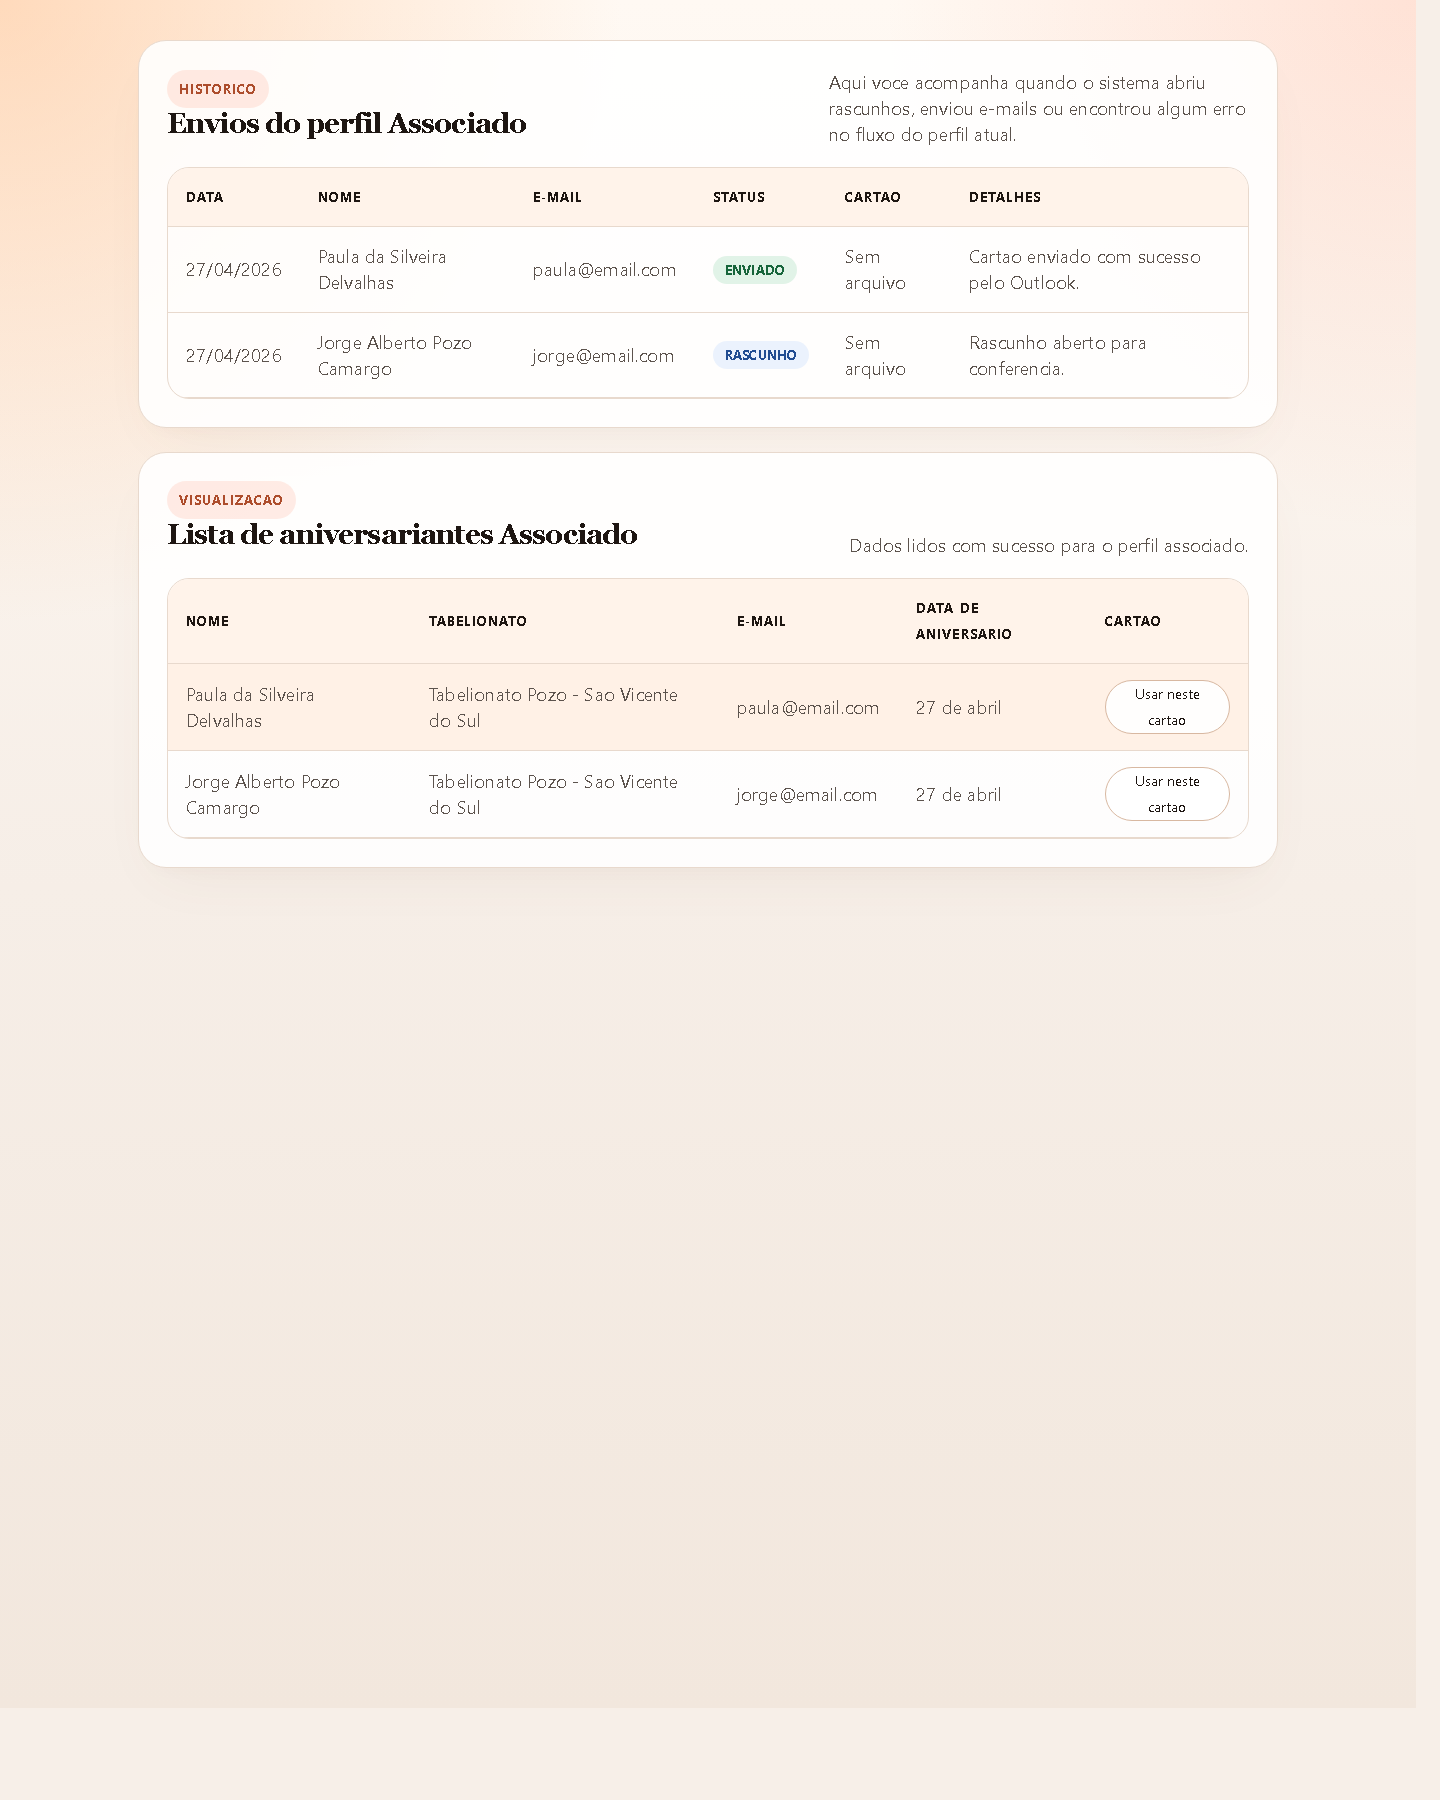
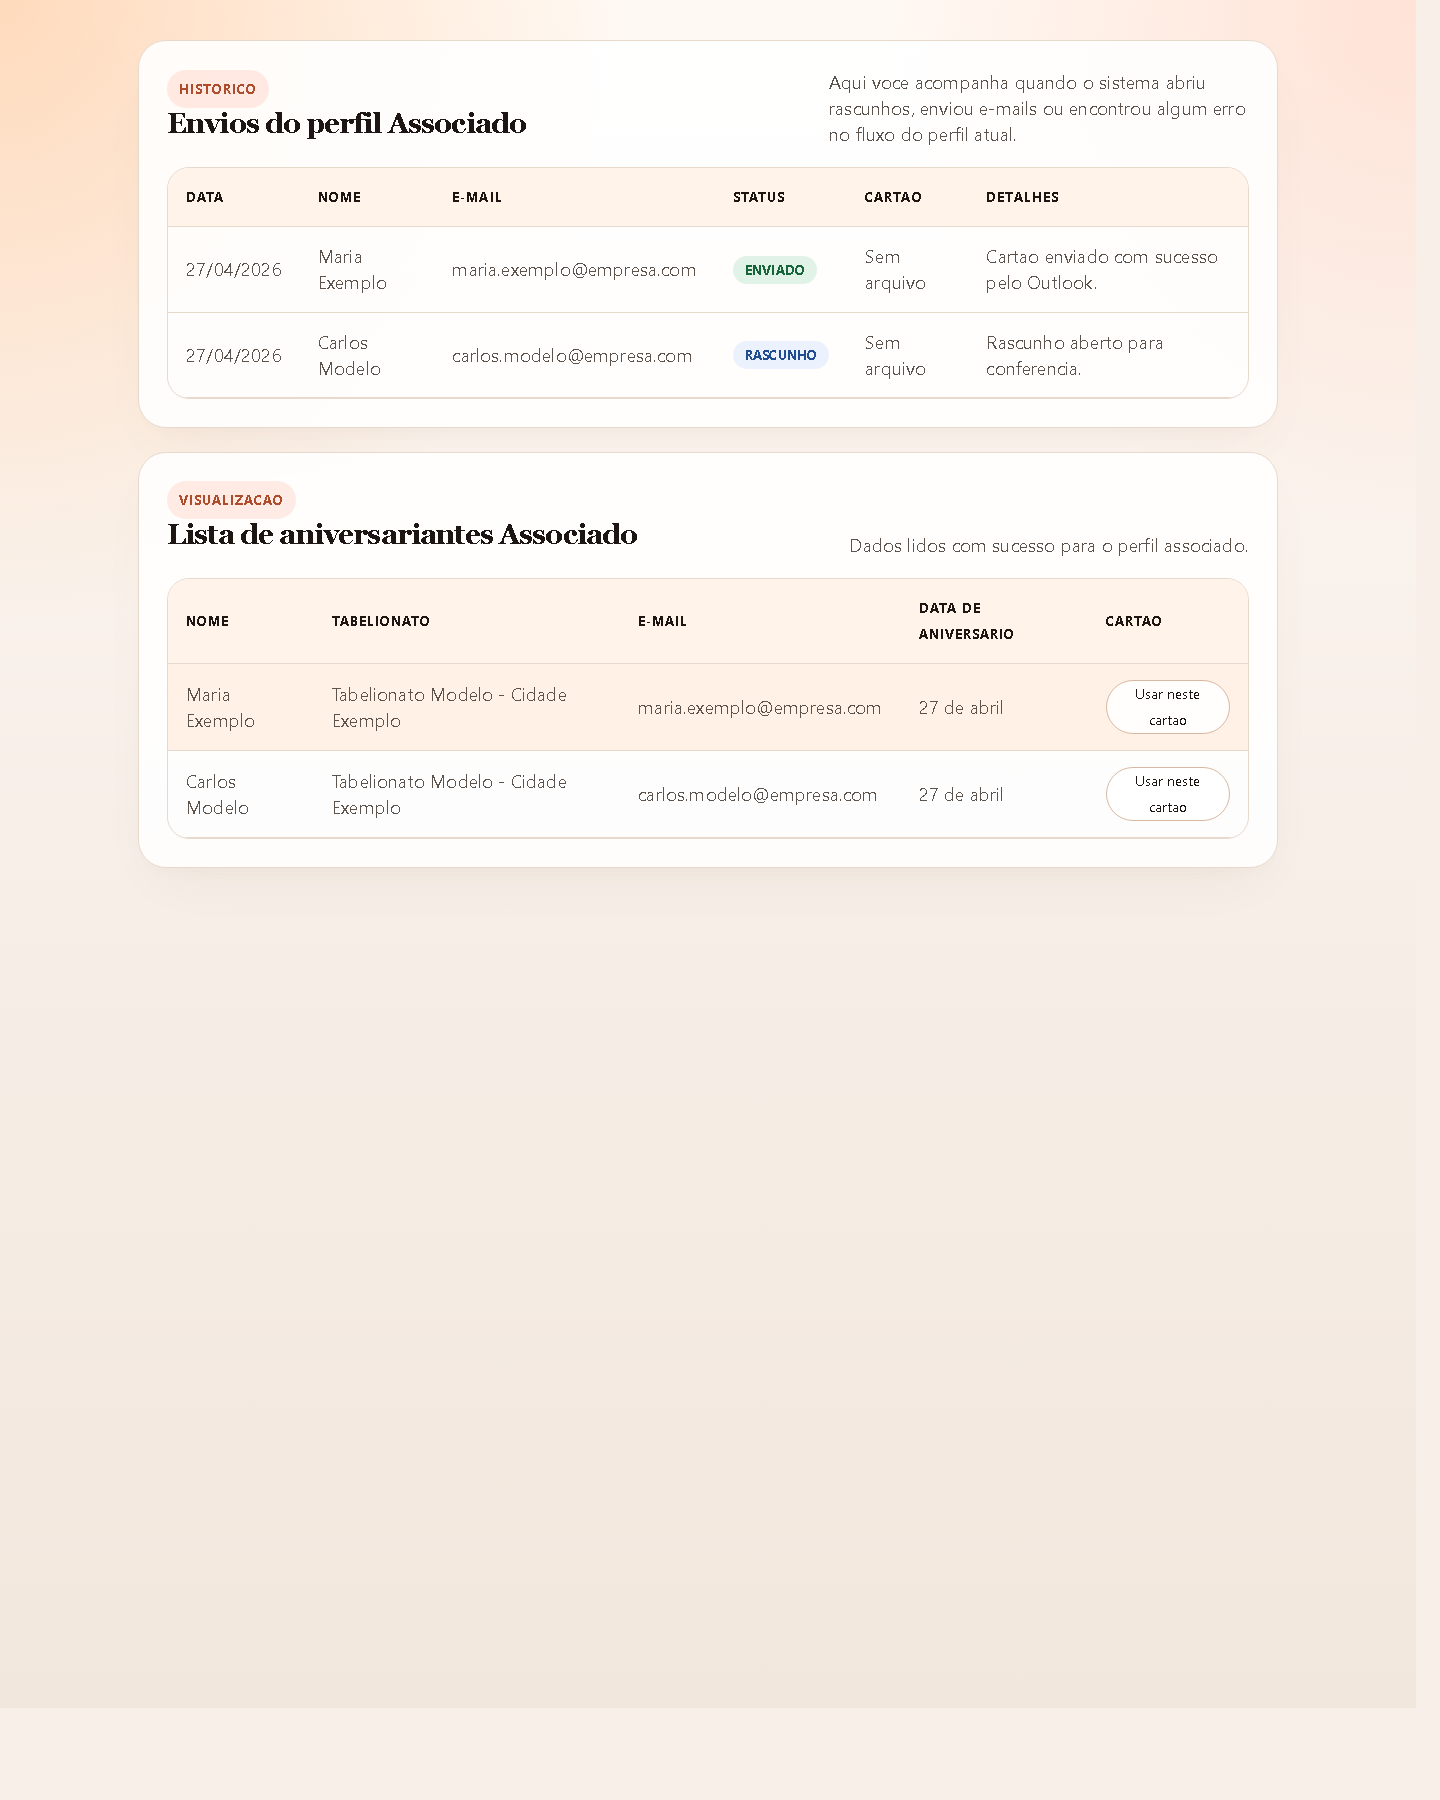
chore: sanitize portfolio demo data

diff --git a/frontend/src/App.jsx b/frontend/src/App.jsx
@@ -37,29 +37,29 @@ const PROFILES = {
 const SAMPLE_ROWS = {
   associado: [
     {
-      nome: 'Paula da Silveira Delvalhas',
-      tabelionato: 'Tabelionato Pozo - Sao Vicente do Sul',
-      email: 'paula@email.com',
+      nome: 'Maria Exemplo',
+      tabelionato: 'Tabelionato Modelo - Cidade Exemplo',
+      email: 'maria.exemplo@empresa.com',
       data_aniversario: '27/04',
     },
     {
-      nome: 'Jorge Alberto Pozo Camargo',
-      tabelionato: 'Tabelionato Pozo - Sao Vicente do Sul',
-      email: 'jorge@email.com',
+      nome: 'Carlos Modelo',
+      tabelionato: 'Tabelionato Modelo - Cidade Exemplo',
+      email: 'carlos.modelo@empresa.com',
       data_aniversario: '27/04',
     },
   ],
   diretoria: [
     {
-      nome: 'Joao Ricardo Souza',
-      tabelionato: 'Diretoria CNB/RS',
-      email: 'joao.ricardo@email.com',
+      nome: 'Fernanda Exemplo',
+      tabelionato: 'Diretoria Institucional',
+      email: 'fernanda.exemplo@empresa.com',
       data_aniversario: '27/04',
     },
     {
-      nome: 'Mariana Costa Ferreira',
-      tabelionato: 'Diretoria CNB/RS',
-      email: 'mariana.ferreira@email.com',
+      nome: 'Roberto Modelo',
+      tabelionato: 'Diretoria Institucional',
+      email: 'roberto.modelo@empresa.com',
       data_aniversario: '05/05',
     },
   ],
@@ -70,8 +70,8 @@ const SAMPLE_HISTORY = {
     {
       timestamp: '2026-04-27T08:00:00',
       data_referencia: '27/04/2026',
-      nome: 'Paula da Silveira Delvalhas',
-      email: 'paula@email.com',
+      nome: 'Maria Exemplo',
+      email: 'maria.exemplo@empresa.com',
       status: 'enviado',
       detalhes: 'Cartao enviado com sucesso pelo Outlook.',
       arquivo_cartao_url: null,
@@ -79,8 +79,8 @@ const SAMPLE_HISTORY = {
     {
       timestamp: '2026-04-27T08:03:00',
       data_referencia: '27/04/2026',
-      nome: 'Jorge Alberto Pozo Camargo',
-      email: 'jorge@email.com',
+      nome: 'Carlos Modelo',
+      email: 'carlos.modelo@empresa.com',
       status: 'rascunho',
       detalhes: 'Rascunho aberto para conferencia.',
       arquivo_cartao_url: null,
@@ -90,8 +90,8 @@ const SAMPLE_HISTORY = {
     {
       timestamp: '2026-04-27T08:10:00',
       data_referencia: '27/04/2026',
-      nome: 'Joao Ricardo Souza',
-      email: 'joao.ricardo@email.com',
+      nome: 'Fernanda Exemplo',
+      email: 'fernanda.exemplo@empresa.com',
       status: 'enviado',
       detalhes: 'Parabens ao membro da Diretoria enviado com sucesso.',
       arquivo_cartao_url: null,
@@ -209,7 +209,7 @@ function App() {
   )
   const [previewCardUrl, setPreviewCardUrl] = useState('')
   const [templateVersion, setTemplateVersion] = useState(0)
-  const [senderEmail, setSenderEmail] = useState('luis.dias@cnbrs.org.br')
+  const [senderEmail, setSenderEmail] = useState('aniversarios@empresa.com')
   const [uploadStatus, setUploadStatus] = useState(
     isScreenshotMode ? 'Planilha salva com sucesso no perfil associado.' : '',
   )
@@ -220,7 +220,7 @@ function App() {
     isScreenshotMode ? 'Fluxo demonstrativo pronto para abrir rascunho ou enviar.' : '',
   )
   const [automationOutput, setAutomationOutput] = useState(
-    isScreenshotMode ? ['Paula da Silveira Delvalhas <paula@email.com>: enviado'] : [],
+    isScreenshotMode ? ['Maria Exemplo <maria.exemplo@empresa.com>: enviado'] : [],
   )
   const [isRunningAutomation, setIsRunningAutomation] = useState(false)
   const [historyItems, setHistoryItems] = useState(
@@ -491,8 +491,8 @@ function App() {
       )
       setAutomationOutput(
         mode === 'send'
-          ? ['Paula da Silveira Delvalhas <paula@email.com>: enviado']
-          : ['Paula da Silveira Delvalhas <paula@email.com>: rascunho'],
+          ? ['Maria Exemplo <maria.exemplo@empresa.com>: enviado']
+          : ['Maria Exemplo <maria.exemplo@empresa.com>: rascunho'],
       )
       return
     }

diff --git a/README.md b/README.md
@@ -55,6 +55,7 @@ Nao e apenas um CRUD. E um sistema que automatiza uma tarefa administrativa conc
 - geracao da previa do cartao com nome dinamico
 - composicao do e-mail com imagem no corpo
 - historico de envios com acesso ao cartao gerado
+- todas as capturas do README usam dados ficticios
 
 ### Interface Screenshots
 
